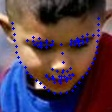
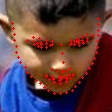
1

Changed region(s): [[0.0804, 0.1339, 0.9107, 0.8571], [0.5357, 0.4554, 0.5893, 0.5089]]

diff --git a/onnxrt_inference.py b/onnxrt_inference.py
@@ -9,8 +9,8 @@ import time
 import cv2
 
 
-onnx_model_path = "/Users/xintao/Desktop/人脸106关键点检测项目/PFLD-pytorch/output/pfld-sim.onnx"
-img_path = '/Users/xintao/Desktop/人脸106关键点检测项目/PFLD-pytorch/data/test_data/imgs/0_37_Soccer_soccer_ball_37_45_0.png'
+onnx_model_path = "./output/pfld-sim.onnx"
+img_path = "1.png"
 img = cv2.imread(img_path)
 show_img = True
 
@@ -30,9 +30,10 @@ for i in range(100):
 t = (time.time() - tic) / 100
 print('average infer time: {:.4f}ms, FPS: {:.2f}'.format(t, 1 / t))
 print('output.shape: ', output.shape)
+# print(output[0])
 if show_img:
     landmarks = output.reshape(-1, 2) * 112
     img_copy = img.copy().astype(np.uint8)
     for (x, y) in landmarks.astype(np.int32):
-        cv2.circle(img_copy, (x, y), 1, (255, 0, 0), -1)
+        cv2.circle(img_copy, (x, y), 1, (0, 0, 255), -1)
     cv2.imwrite('result.jpg', img_copy)
